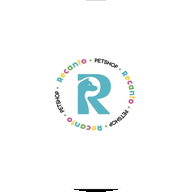
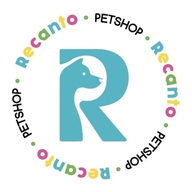
Add files via upload

diff --git a/index.html b/index.html
@@ -6,8 +6,6 @@
   <meta name="theme-color" content="#2EB4C7">
   <meta name="apple-mobile-web-app-capable" content="yes">
   <meta name="apple-mobile-web-app-status-bar-style" content="default">
-  <link id="pwa-manifest-link" rel="manifest" href="manifest.json">
-  <link rel="apple-touch-icon" href="icon-192.png">
   <title>Catálogo Online - Recanto Petshop</title>
   <script src="https://cdn.tailwindcss.com/3.4.17"></script>
   <script src="https://cdn.jsdelivr.net/npm/@supabase/supabase-js@2.49.1/dist/umd/supabase.min.js"></script>
@@ -91,14 +89,8 @@
         <button onclick="closePwaHelpModal()" class="text-slate-400 hover:text-slate-600 font-bold">✕</button>
       </div>
       <p class="text-xs text-slate-600">Para colocar o ícone redondo da loja na tela do seu celular:</p>
-      <div id="pwa-help-inapp" class="hidden bg-amber-50 border border-amber-300 rounded-2xl p-3 text-left text-xs text-amber-900 space-y-1.5">
-        <p class="font-extrabold">⚠ Você abriu dentro do WhatsApp/Instagram!</p>
-        <p>Para instalar igual aplicativo, primeiro abra no navegador:</p>
-        <p><strong>• Android:</strong> toque nos <strong>3 pontinhos (⋮)</strong> no topo e escolha <strong>Abrir no Chrome</strong>.</p>
-        <p><strong>• iPhone:</strong> toque no ícone da <strong>bússola / Safari</strong> no canto inferior direito.</p>
-      </div>
-      <div id="pwa-help-browser" class="bg-[#E8F8FA] border border-[#B5E8EF] rounded-2xl p-3 text-left text-xs text-slate-700 space-y-1.5">
-        <p><strong>• Android (Chrome):</strong> toque nos <strong>3 pontinhos (⋮)</strong> no canto superior e escolha <strong>Instalar aplicativo</strong> ou <strong>Adicionar à tela inicial</strong>.</p>
+      <div class="bg-[#E8F8FA] border border-[#B5E8EF] rounded-2xl p-3 text-left text-xs text-slate-700 space-y-1.5">
+        <p><strong>• Android (Chrome):</strong> toque nos <strong>3 pontinhos (⋮)</strong> no canto superior e escolha <strong>Adicionar à tela inicial</strong>.</p>
         <p><strong>• iPhone (Safari):</strong> toque em <strong>Compartilhar (⬆)</strong> na barra inferior e escolha <strong>Adicionar à Tela de Início</strong>.</p>
       </div>
       <button onclick="closePwaHelpModal()" class="w-full bg-brand-primary text-white font-bold py-2.5 rounded-xl text-xs shadow">Entendi</button>
@@ -152,8 +144,7 @@
         <span class="absolute left-2 flex items-center justify-center w-8 h-8 rounded-xl bg-brand-primary text-white shadow-sm pointer-events-none">
           <svg class="w-4 h-4" fill="none" stroke="currentColor" viewBox="0 0 24 24"><path stroke-linecap="round" stroke-linejoin="round" stroke-width="2.5" d="M21 21l-6-6m2-5a7 7 0 11-14 0 7 7 0 0114 0z"></path></svg>
         </span>
-        <input type="text" id="search-input" oninput="filterProducts()" placeholder="O que seu pet precisa hoje? (Ex: Ração, Brinquedo...)" class="w-full bg-white border-2 border-brand-primary rounded-2xl pl-12 pr-11 py-3 text-sm font-medium text-slate-800 placeholder-slate-400 focus:outline-none focus:border-[#2EB4C7] shadow-sm">
-        <button id="search-clear-btn" type="button" onclick="clearSearchInput()" class="hidden absolute right-2.5 w-7 h-7 rounded-full bg-slate-100 hover:bg-slate-200 text-slate-500 font-bold text-xs flex items-center justify-center transition" title="Limpar busca">✕</button>
+        <input type="text" id="search-input" oninput="filterProducts()" placeholder="O que seu pet precisa hoje? (Ex: Ração, Brinquedo...)" class="w-full bg-white border-2 border-brand-primary rounded-2xl pl-12 pr-4 py-3 text-sm font-medium text-slate-800 placeholder-slate-400 focus:outline-none focus:border-[#2EB4C7] shadow-sm">
       </div>
     </div>
 
@@ -171,10 +162,7 @@
       <div class="w-16 h-16 bg-[#E8F8FA] text-brand-primary rounded-full flex items-center justify-center text-2xl mb-3 shadow-inner">🐾</div>
       <h3 class="text-base font-bold text-slate-700">Nenhum produto encontrado</h3>
       <p class="text-xs text-slate-500 mt-1">Tente buscar por outro termo ou limpar os filtros.</p>
-      <div class="mt-4 flex flex-wrap items-center justify-center gap-2">
-        <button id="empty-whatsapp-btn" onclick="askEmptySearchOnWhatsApp()" class="hidden bg-[#25D366] hover:bg-[#1EBE5D] text-white text-xs font-extrabold px-4 py-2 rounded-xl shadow flex items-center gap-1.5 transition"><span>💬</span><span>Perguntar no WhatsApp</span></button>
-        <button onclick="clearAllFilters()" class="bg-brand-primary text-white text-xs font-bold px-4 py-2 rounded-xl shadow hover:opacity-90 transition">Ver Todos os Produtos</button>
-      </div>
+      <button onclick="clearAllFilters()" class="mt-4 bg-brand-primary text-white text-xs font-bold px-4 py-2 rounded-xl shadow hover:opacity-90 transition">Ver Todos os Produtos</button>
     </div>
 
   </main>
@@ -934,10 +922,6 @@
       return window.matchMedia('(display-mode: standalone)').matches || window.navigator.standalone === true;
     }
 
-    function isInAppBrowser() {
-      return /WhatsApp|FBAN|FBAV|Instagram|Line|MicroMessenger|\bwv\b/i.test(navigator.userAgent || '');
-    }
-
     function showPwaInstallBanner() {
       if (isStandaloneMode()) return;
       try { if (sessionStorage.getItem('pwa_dismissed_' + storeSlug)) return; } catch (e) {}
@@ -956,22 +940,12 @@
     }
 
     async function triggerPwaInstall() {
-      if (deferredInstallPrompt && !isInAppBrowser()) {
+      if (deferredInstallPrompt) {
         deferredInstallPrompt.prompt();
         const res = await deferredInstallPrompt.userChoice;
         deferredInstallPrompt = null;
-        if (res && res.outcome === 'accepted') {
-          dismissPwaBanner();
-          showToast("📲 Instalando app... Em segundos o ícone aparece no seu celular!");
-        }
+        if (res && res.outcome === 'accepted') dismissPwaBanner();
       } else {
-        const inAppBox = document.getElementById('pwa-help-inapp');
-        const browserBox = document.getElementById('pwa-help-browser');
-        if (inAppBox && browserBox) {
-          const inApp = isInAppBrowser();
-          inAppBox.classList.toggle('hidden', !inApp);
-          browserBox.classList.toggle('hidden', inApp);
-        }
         document.getElementById('pwa-help-modal').classList.remove('hidden');
       }
     }
@@ -1006,13 +980,36 @@
 
     async function injectPWAManifest() {
       try {
-        const manifestLink = document.getElementById('pwa-manifest-link');
-        if (manifestLink && storeSlug === 'suricata') {
-          manifestLink.setAttribute('href', 'manifest-suricata.json');
+        const rawLogo = storeConfig.logo || DEFAULT_LOGO_IMG;
+        const icon192 = await makeRoundIconDataUrl(rawLogo, 192);
+        const icon512 = await makeRoundIconDataUrl(rawLogo, 512);
+        let appleIcon = document.querySelector('link[rel="apple-touch-icon"]');
+        if (!appleIcon) {
+          appleIcon = document.createElement('link');
+          appleIcon.rel = 'apple-touch-icon';
+          document.head.appendChild(appleIcon);
         }
-        if ('serviceWorker' in navigator && location.protocol.startsWith('http')) {
-          navigator.serviceWorker.register('./sw.js').catch(() => {});
+        appleIcon.href = icon192;
+        const manifest = {
+          name: storeConfig.name,
+          short_name: storeConfig.name.slice(0, 14),
+          start_url: window.location.href,
+          display: "standalone",
+          background_color: "#F4F9FA",
+          theme_color: storeConfig.primaryColor || "#2EB4C7",
+          icons: [
+            { src: icon192, sizes: "192x192", type: "image/png", purpose: "any maskable" },
+            { src: icon512, sizes: "512x512", type: "image/png", purpose: "any maskable" }
+          ]
+        };
+        const blob = new Blob([JSON.stringify(manifest)], { type: 'application/json' });
+        let link = document.querySelector('link[rel="manifest"]');
+        if (!link) {
+          link = document.createElement('link');
+          link.rel = 'manifest';
+          document.head.appendChild(link);
         }
+        link.href = URL.createObjectURL(blob);
         showPwaInstallBanner();
       } catch (e) {}
     }
@@ -1621,56 +1618,6 @@
         .trim();
     }
 
-    function phoneticSearchText(str) {
-      return normalizeSearchText(str)
-        .replace(/ph/g, 'f')
-        .replace(/ch|sh/g, 'x')
-        .replace(/y/g, 'i')
-        .replace(/k/g, 'c')
-        .replace(/w/g, 'u')
-        .replace(/(.)\1+/g, '$1');
-    }
-
-    function stemPortugueseWord(w) {
-      if (!w || w.length < 4) return w;
-      if (/(oes|aes|aos)$/.test(w)) return w.slice(0, -3) + 'ao';
-      if (w.endsWith('is') && w.length >= 4) return w.slice(0, -2) + 'l';
-      if (w.endsWith('ns') && w.length >= 4) return w.slice(0, -2) + 'm';
-      if (w.endsWith('s') && w.length >= 4) return w.slice(0, -1);
-      return w;
-    }
-
-    const PET_SYNONYM_GROUPS = [
-      ['racao', 'alimento', 'comida'],
-      ['cao', 'cachorro', 'dog'],
-      ['gato', 'felino', 'cat'],
-      ['passaro', 'ave', 'calopsita', 'periquito'],
-      ['shampoo', 'xampu', 'shampo', 'xampo', 'banho'],
-      ['sache', 'umido', 'pate', 'lata'],
-      ['remedio', 'medicamento', 'farmacia', 'medicina'],
-      ['antipulga', 'pulga', 'carrapato', 'sarna'],
-      ['petisco', 'bifinho', 'biscoito', 'snack', 'osso', 'ossinho'],
-      ['areia', 'granulado', 'sanitario', 'pipi'],
-      ['coleira', 'guia', 'peitoral'],
-      ['brinquedo', 'bolinha', 'mordedor', 'arranhador'],
-      ['vermifugo', 'verme'],
-      ['vitamina', 'suplemento']
-    ];
-
-    function getSearchVariants(tok) {
-      const stem = stemPortugueseWord(tok);
-      const variants = new Set([tok, stem, phoneticSearchText(tok), phoneticSearchText(stem)]);
-      PET_SYNONYM_GROUPS.forEach(grp => {
-        if (grp.includes(tok) || grp.includes(stem)) {
-          grp.forEach(syn => {
-            variants.add(syn);
-            variants.add(phoneticSearchText(syn));
-          });
-        }
-      });
-      return [...variants].filter(Boolean);
-    }
-
     function editDistance(a, b) {
       if (Math.abs(a.length - b.length) > 2) return 99;
       const dp = Array.from({ length: a.length + 1 }, () => new Array(b.length + 1).fill(0));
@@ -1688,60 +1635,26 @@
     function smartMatchProduct(product, query) {
       const qNorm = normalizeSearchText(query);
       if (!qNorm) return true;
-      const rawWeight = product.weight && product.weight !== 'Sem peso/medida' ? product.weight : '';
-      const fullText = normalizeSearchText([product.name, product.brand, product.category, product.subcategory, rawWeight].join(' '));
-      const compactText = fullText.replace(/[^a-z0-9]/g, '');
-      const qCompact = qNorm.replace(/[^a-z0-9]/g, '');
-      if (fullText.includes(qNorm) || (qCompact.length >= 2 && compactText.includes(qCompact))) return true;
-      const phonFull = phoneticSearchText(fullText);
-      const phonCompact = phonFull.replace(/[^a-z0-9]/g, '');
-      const qPhonCompact = phoneticSearchText(qNorm).replace(/[^a-z0-9]/g, '');
-      if (qPhonCompact.length >= 3 && phonCompact.includes(qPhonCompact)) return true;
-      const words = fullText.split(/[^a-z0-9]+/).filter(Boolean);
-      const stemmedWords = words.map(w => stemPortugueseWord(w));
-      const phonWords = words.map(w => phoneticSearchText(w));
+      const fullText = normalizeSearchText([product.name, product.brand, product.category, product.subcategory].join(' '));
+      if (fullText.includes(qNorm)) return true;
       const tokens = qNorm.split(/\s+/).filter(Boolean);
+      const words = fullText.split(/[^a-z0-9]+/).filter(Boolean);
       return tokens.every(tok => {
-        const variants = getSearchVariants(tok);
-        if (variants.some(v => fullText.includes(v) || phonFull.includes(v) || (v.length >= 3 && compactText.includes(v)))) return true;
-        if (variants.some(v => stemmedWords.includes(v))) return true;
-        if (tok.length < 3) return false;
+        if (fullText.includes(tok)) return true;
+        if (tok.length < 4) return false;
         const maxDist = tok.length >= 7 ? 2 : 1;
-        return variants.some(v => {
-          if (v.length < 4) return false;
-          return words.some((w, idx) => {
-            const sw = stemmedWords[idx];
-            const pw = phonWords[idx];
-            if (editDistance(v, w) <= maxDist || editDistance(v, sw) <= maxDist || editDistance(v, pw) <= maxDist) return true;
-            if (w.length > v.length && editDistance(v, w.slice(0, v.length)) <= 1) return true;
-            return false;
-          });
+        return words.some(w => {
+          if (editDistance(tok, w) <= maxDist) return true;
+          if (w.length > tok.length && editDistance(tok, w.slice(0, tok.length)) <= 1) return true;
+          return false;
         });
       });
     }
 
-    function clearSearchInput() {
-      const inp = document.getElementById('search-input');
-      if (inp) { inp.value = ''; inp.focus(); }
-      filterProducts();
-    }
-
-    function askEmptySearchOnWhatsApp() {
-      const query = (document.getElementById('search-input')?.value || '').trim();
-      const num = normalizeWhatsAppBR(storeConfig.whatsapp || "5511999999999");
-      const msg = encodeURIComponent(`Olá! Procurei por "${query}" no catálogo da ${storeConfig.name} e não encontrei. Vocês têm na loja? 🐾`);
-      const url = `https://api.whatsapp.com/send?phone=${num}&text=${msg}`;
-      const win = window.open(url, '_blank', 'noopener,noreferrer');
-      if (!win) window.location.href = url;
-    }
-
     function filterProducts() {
       const query = document.getElementById('search-input').value.trim();
-      const clearBtn = document.getElementById('search-clear-btn');
-      if (clearBtn) clearBtn.classList.toggle('hidden', !query);
 
-      let usedGlobalFallback = false;
-      let filtered = products.filter(p => {
+      const filtered = products.filter(p => {
         if (p.active === false) return false;
         const matchQuery = smartMatchProduct(p, query);
         const matchCat = currentCategory === "Todos" || p.category === currentCategory;
@@ -1750,11 +1663,6 @@
         const matchPromo = !onlyPromo || isProductPromoActive(p);
         return matchQuery && matchCat && matchSub && matchBrand && matchPromo;
       });
-
-      if (query && filtered.length === 0 && (currentCategory !== "Todos" || currentSubcategory !== "Todos" || currentBrand !== "Todos" || onlyPromo)) {
-        filtered = products.filter(p => p.active !== false && smartMatchProduct(p, query));
-        if (filtered.length > 0) usedGlobalFallback = true;
-      }
 
       const sortBy = document.getElementById('client-sort-select')?.value || 'promo-first';
       if (sortBy === 'price-asc') {
@@ -1772,9 +1680,7 @@
       const countBadge = document.getElementById('product-count-badge');
       const listTitle = document.getElementById('product-list-title');
 
-      if (usedGlobalFallback) {
-        listTitle.textContent = `🔎 Resultados em todo o catálogo`;
-      } else if (onlyPromo) {
+      if (onlyPromo) {
         listTitle.textContent = "🔥 Produtos em Promoção";
       } else if (currentCategory !== "Todos") {
         listTitle.textContent = currentSubcategory !== "Todos" ? `${currentCategory} > ${currentSubcategory}` : currentCategory;
@@ -1783,8 +1689,6 @@
       }
 
       countBadge.textContent = `${filtered.length} ${filtered.length === 1 ? 'item' : 'itens'}`;
-      const emptyWaBtn = document.getElementById('empty-whatsapp-btn');
-      if (emptyWaBtn) emptyWaBtn.classList.toggle('hidden', !query);
 
       if (filtered.length === 0) {
         grid.innerHTML = "";
